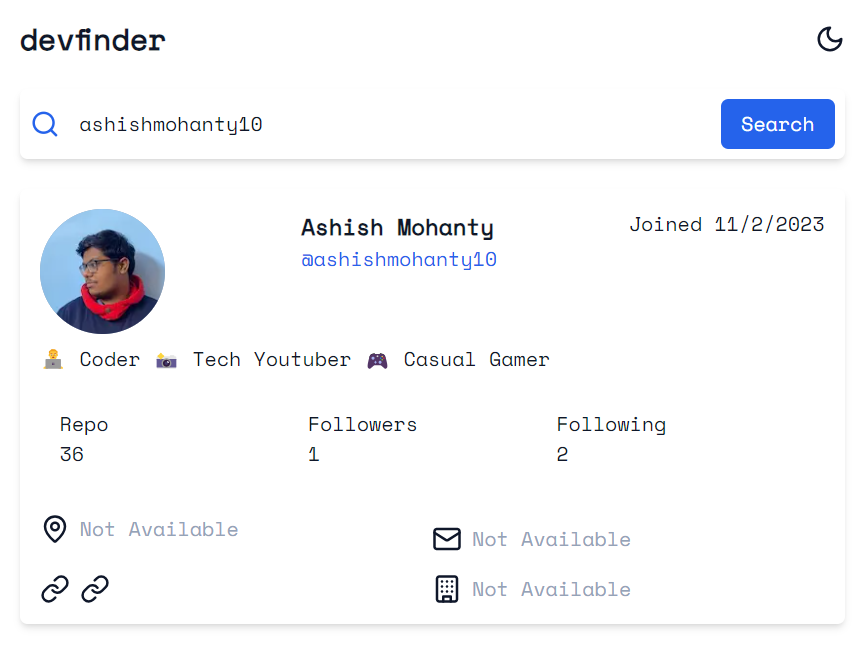
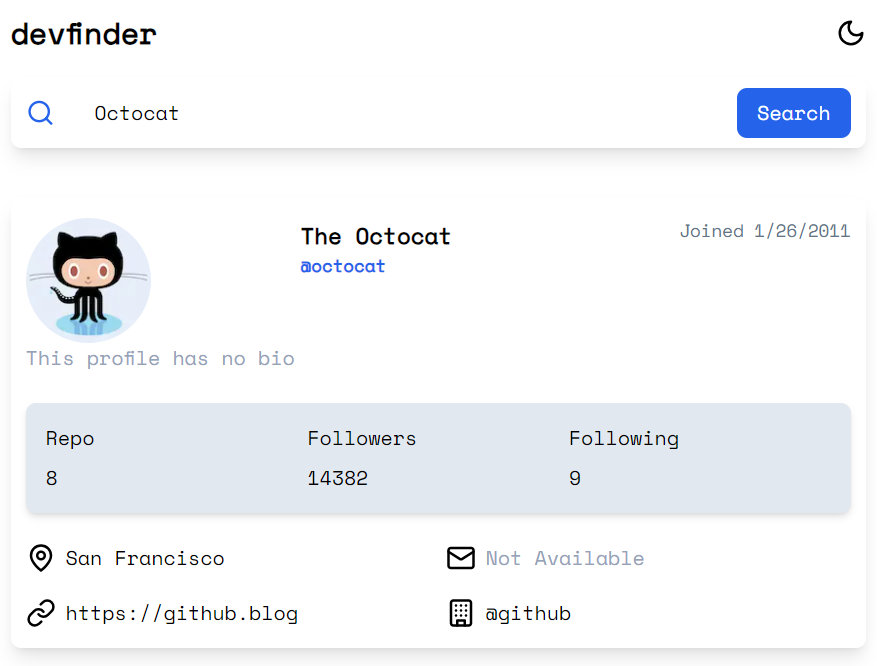
done

diff --git a/src/app/page.tsx b/src/app/page.tsx
@@ -99,7 +99,7 @@ const Page = () => {
                 </p>
 
                 {/* Stats */}
-                <div className="p-4 rounded-lg dark:bg-[#141c30] grid grid-cols-3 mb-6   ">
+                <div className="p-4 rounded-lg bg-slate-200 dark:bg-[#141c30] grid grid-cols-3 mb-6   shadow-md">
                   <div>
                     <p className="mb-2">Repo</p>
                     <p>
